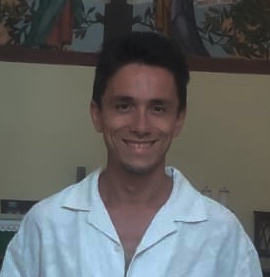
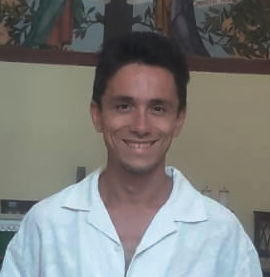
profile pic changed 2

diff --git a/index.html b/index.html
@@ -17,7 +17,7 @@
     background-repeat: no-repeat;
   " data-astro-cid-v2cbyr3p> <div class="absolute inset-0 pointer-events-none before-glow" data-astro-cid-v2cbyr3p></div> <div class="section-content flex flex-col items-center text-center px-4 py-16 md:py-24 max-w-5xl w-full" data-astro-cid-v2cbyr3p> <!-- TITLE --> <h2 class="text-3xl md:text-5xl font-bold text-white mb-20 title-futuristic" data-astro-cid-v2cbyr3p>
 About Me
-</h2> <!-- INTRO --> <section class="intro w-full flex justify-center items-center mb-16 relative z-10" data-astro-cid-v2cbyr3p> <div class="flex flex-col md:flex-row items-center md:items-start gap-10 md:gap-14 w-full max-w-4xl" data-astro-cid-v2cbyr3p> <!-- PROFILE IMAGE --> <img src="/_astro/profile-picture.Ds_X0U2b.png" alt="Nacho profile picture" class="pfp-square shrink-0" data-astro-cid-v2cbyr3p> <!-- TEXT --> <div class="flex flex-col text-center md:text-left max-w-2xl" data-astro-cid-v2cbyr3p> <p class="subtitle-professional text-sm md:text-base mb-2" data-astro-cid-v2cbyr3p>
+</h2> <!-- INTRO --> <section class="intro w-full flex justify-center items-center mb-16 relative z-10" data-astro-cid-v2cbyr3p> <div class="flex flex-col md:flex-row items-center md:items-start gap-10 md:gap-14 w-full max-w-4xl" data-astro-cid-v2cbyr3p> <!-- PROFILE IMAGE --> <img src="/_astro/profile-picture.BQWGnrJm.png" alt="Nacho profile picture" class="pfp-square shrink-0" data-astro-cid-v2cbyr3p> <!-- TEXT --> <div class="flex flex-col text-center md:text-left max-w-2xl" data-astro-cid-v2cbyr3p> <p class="subtitle-professional text-sm md:text-base mb-2" data-astro-cid-v2cbyr3p>
 Biomedical Engineer • Data Scientist • Web Developer
 </p> <h1 class="text-white text-4xl md:text-5xl font-bold leading-tight mb-4" data-astro-cid-v2cbyr3p>
 Ignacio Atencia Jiménez